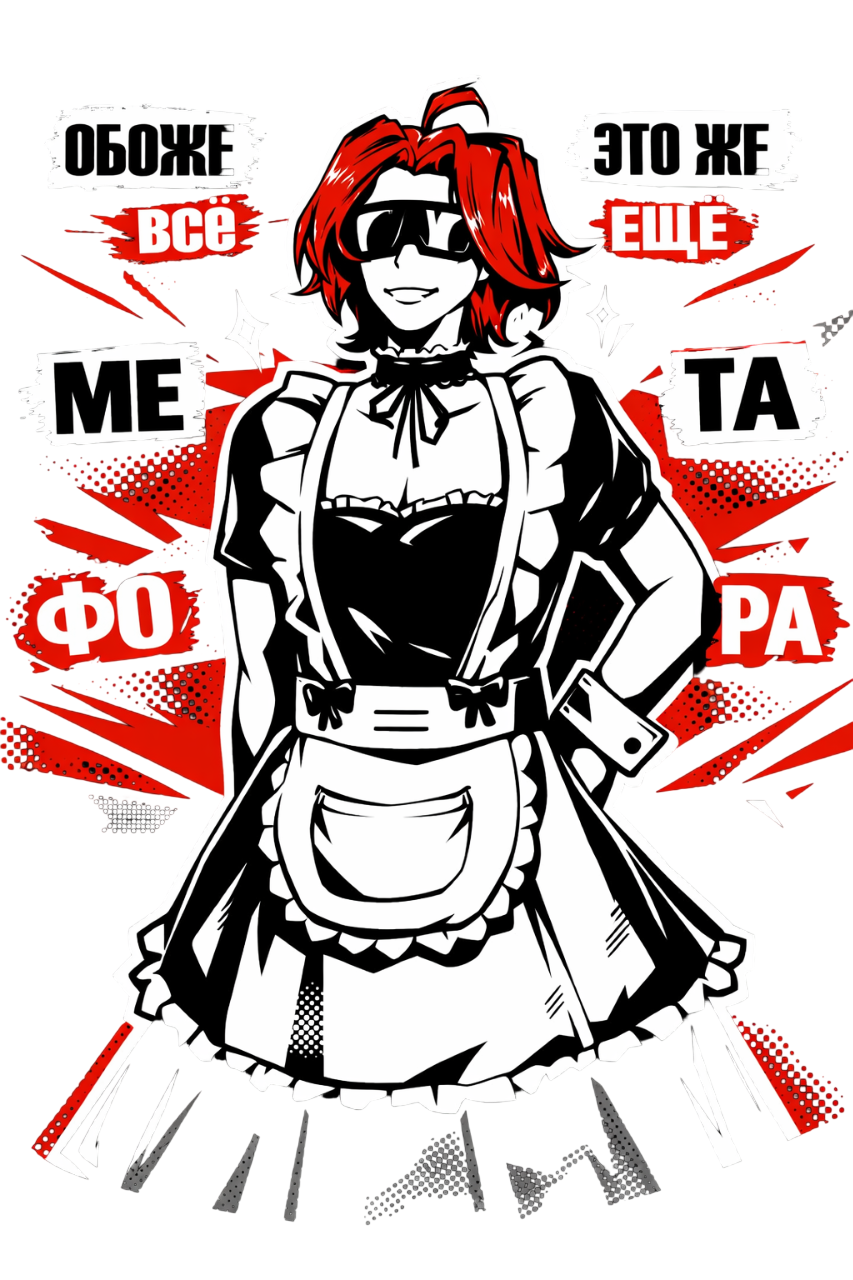
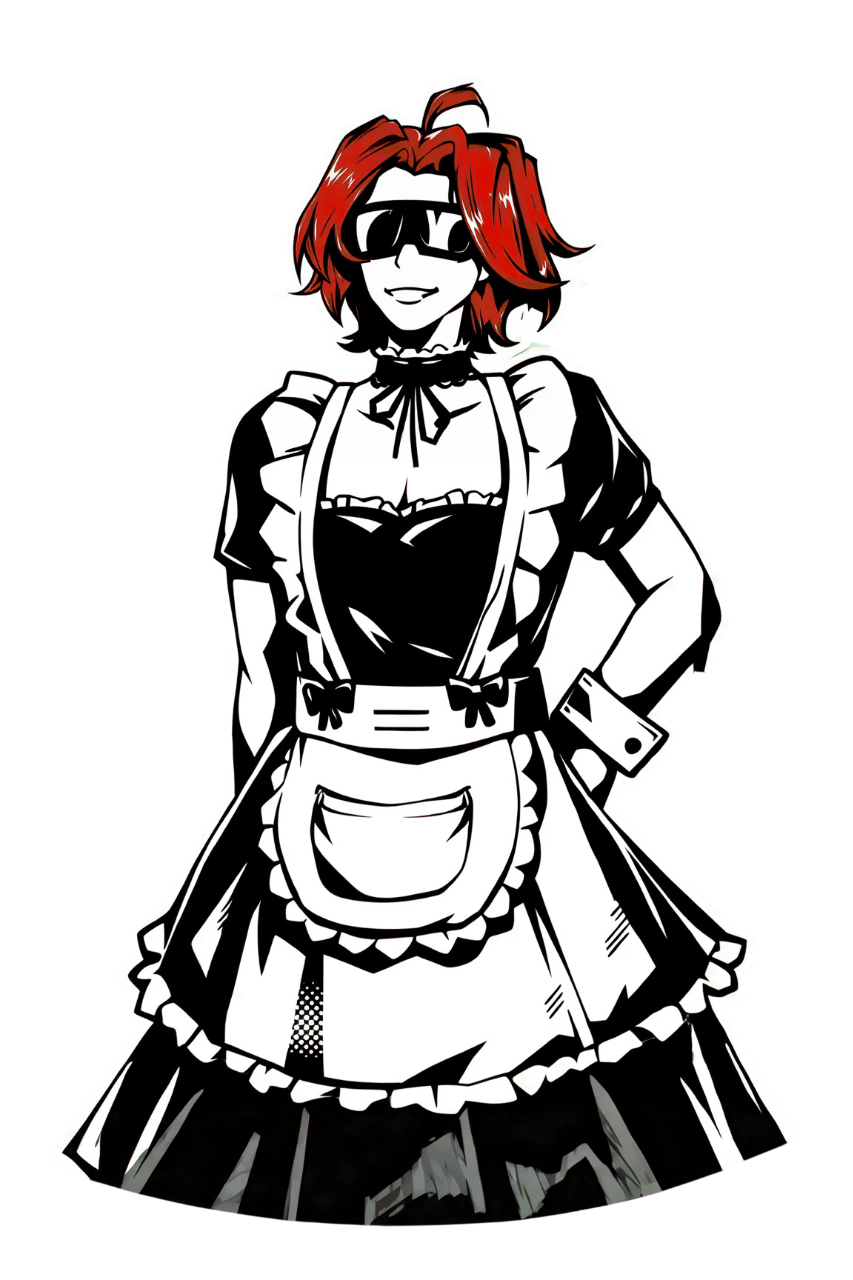
refactor code and remove old image of character

diff --git a/index.html b/index.html
@@ -37,7 +37,7 @@
     </div>
 
     <div class="character-wrapper">
-      <img src="img/character2.png" alt="Meta4ora" class="character">
+      <img src="img/character.png" alt="Meta4ora" class="character">
     </div>
 
     <div class="social-icons">
